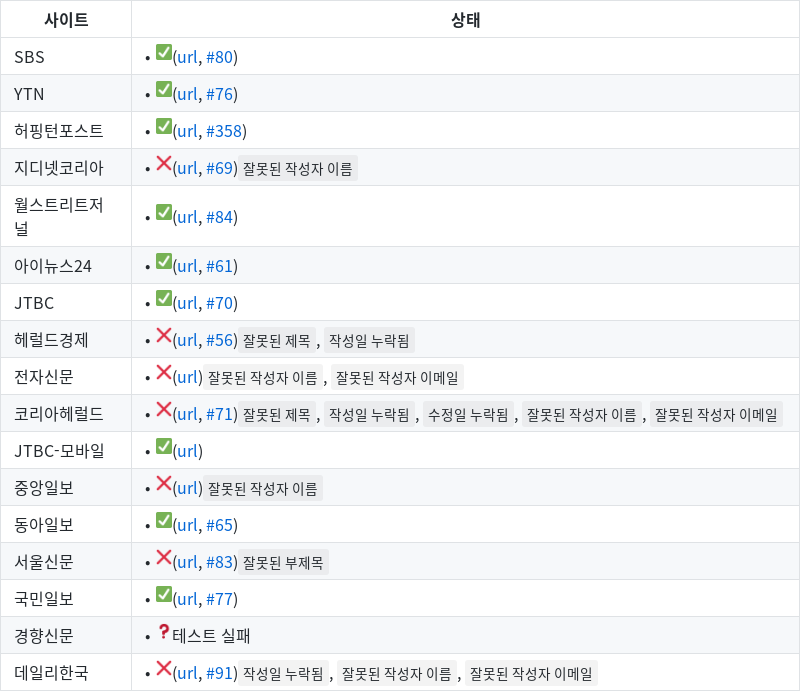
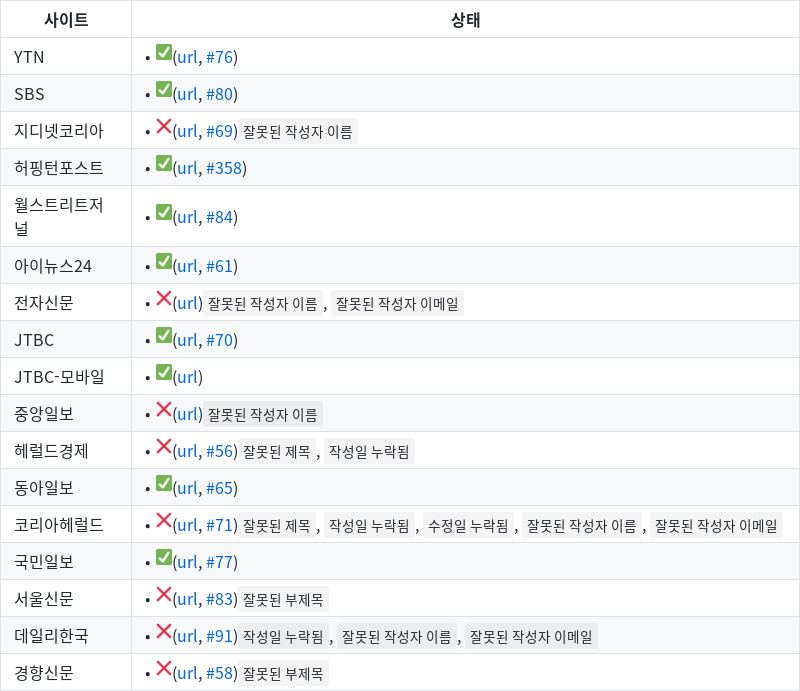
Mon Jan 13 00:09:42 UTC 2020

diff --git a/health-check.md b/health-check.md
@@ -1,19 +1,19 @@
 | 사이트 | 상태 |
 |------|-------|
-| SBS | • ✅([url](https://news.sbs.co.kr/news/endPage.do?news_id=N1002697236), [#80](https://github.com/disjukr/just-news/issues/#80)) |
 | YTN | • ✅([url](https://www.ytn.co.kr/_ln/0103_201411190800481989), [#76](https://github.com/disjukr/just-news/issues/#76)) |
-| 허핑턴포스트 | • ✅([url](https://www.huffingtonpost.kr/entry/story_kr_5d36a558e4b004b6adb5029c?9e4), [#358](https://github.com/disjukr/just-news/issues/#358)) |
+| SBS | • ✅([url](https://news.sbs.co.kr/news/endPage.do?news_id=N1002697236), [#80](https://github.com/disjukr/just-news/issues/#80)) |
 | 지디넷코리아 | • ❌([url](http://www.zdnet.co.kr/view/?no=20141104074223), [#69](https://github.com/disjukr/just-news/issues/#69))`잘못된 작성자 이름` |
+| 허핑턴포스트 | • ✅([url](https://www.huffingtonpost.kr/entry/story_kr_5d36a558e4b004b6adb5029c?9e4), [#358](https://github.com/disjukr/just-news/issues/#358)) |
 | 월스트리트저널 | • ✅([url](https://realtime.wsj.com/korea/2014/10/13/%EB%B0%95%EC%9B%90%EC%88%9C-%EC%84%9C%EC%9A%B8%EC%8B%9C%EC%9E%A5-%EB%AF%B8%EA%B5%AD-%EC%96%B8%EB%A1%A0%EC%97%90-%EB%8F%99%EC%84%B1%EA%B2%B0%ED%98%BC-%EC%A7%80%EC%A7%80-%EB%B0%9C%EC%96%B8/), [#84](https://github.com/disjukr/just-news/issues/#84)) |
 | 아이뉴스24 | • ✅([url](http://www.inews24.com/view/860573), [#61](https://github.com/disjukr/just-news/issues/#61)) |
-| JTBC | • ✅([url](http://news.jtbc.joins.com/article/article.aspx?news_id=NB10639468), [#70](https://github.com/disjukr/just-news/issues/#70)) |
-| 헤럴드경제 | • ❌([url](http://news.heraldcorp.com/view.php?ud=20141023000202&md=20141023091209_BK), [#56](https://github.com/disjukr/just-news/issues/#56))`잘못된 제목`, `작성일 누락됨` |
 | 전자신문 | • ❌([url](http://www.etnews.com/20191031000370?mc=ns_003_00006))`잘못된 작성자 이름`, `잘못된 작성자 이메일` |
-| 코리아헤럴드 | • ❌([url](http://khnews.kheraldm.com/view.php?ud=20141111001137&md=20141111180830_BK&kr=1), [#71](https://github.com/disjukr/just-news/issues/#71))`잘못된 제목`, `작성일 누락됨`, `수정일 누락됨`, `잘못된 작성자 이름`, `잘못된 작성자 이메일` |
+| JTBC | • ✅([url](http://news.jtbc.joins.com/article/article.aspx?news_id=NB10639468), [#70](https://github.com/disjukr/just-news/issues/#70)) |
 | JTBC-모바일 | • ✅([url](http://mnews.jtbc.joins.com/News/Article.aspx?news_id=NB11866214)) |
 | 중앙일보 | • ❌([url](https://news.joins.com/article/23621286))`잘못된 작성자 이름` |
+| 헤럴드경제 | • ❌([url](http://news.heraldcorp.com/view.php?ud=20141023000202&md=20141023091209_BK), [#56](https://github.com/disjukr/just-news/issues/#56))`잘못된 제목`, `작성일 누락됨` |
 | 동아일보 | • ✅([url](http://news.donga.com/3/03/20141107/67723014/1), [#65](https://github.com/disjukr/just-news/issues/#65)) |
-| 서울신문 | • ❌([url](http://seoul.co.kr/news/newsView.php?id=20141204500025), [#83](https://github.com/disjukr/just-news/issues/#83))`잘못된 부제목` |
+| 코리아헤럴드 | • ❌([url](http://khnews.kheraldm.com/view.php?ud=20141111001137&md=20141111180830_BK&kr=1), [#71](https://github.com/disjukr/just-news/issues/#71))`잘못된 제목`, `작성일 누락됨`, `수정일 누락됨`, `잘못된 작성자 이름`, `잘못된 작성자 이메일` |
 | 국민일보 | • ✅([url](http://news.kmib.co.kr/article/view.asp?arcid=0008864720&code=61121111), [#77](https://github.com/disjukr/just-news/issues/#77)) |
-| 경향신문 | • ❓테스트 실패 |
+| 서울신문 | • ❌([url](http://seoul.co.kr/news/newsView.php?id=20141204500025), [#83](https://github.com/disjukr/just-news/issues/#83))`잘못된 부제목` |
 | 데일리한국 | • ❌([url](http://daily.hankooki.com/lpage/politics/201412/dh20141219103740137430.htm), [#91](https://github.com/disjukr/just-news/issues/#91))`작성일 누락됨`, `잘못된 작성자 이름`, `잘못된 작성자 이메일` |
+| 경향신문 | • ❌([url](http://biz.khan.co.kr/khan_art_view.html?artid=201410311921301&code=920100&med=khan), [#58](https://github.com/disjukr/just-news/issues/#58))`잘못된 부제목` |
